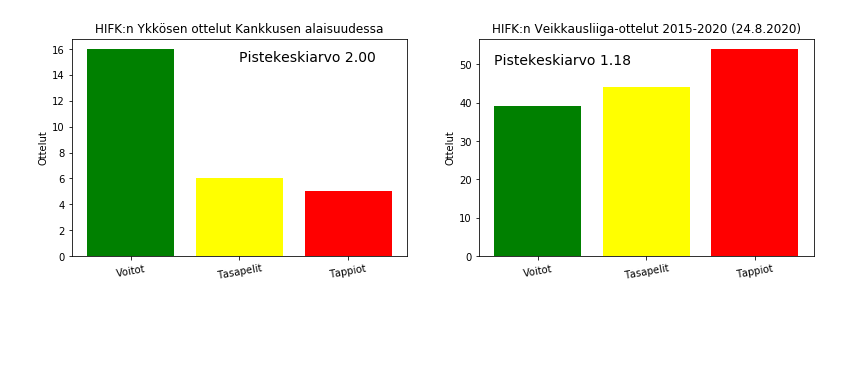
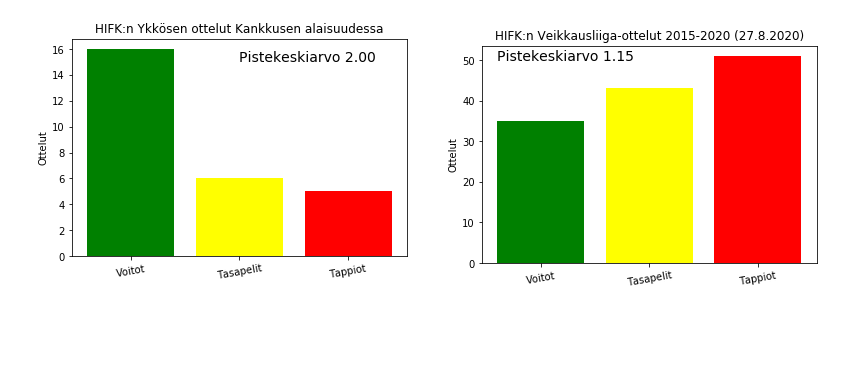
Results 27.8.2020

Changed region(s): [[0.517, 0.0576, 0.9731, 0.7487]]

diff --git a/Results/ResultsByManagers/Veikkausliiga_Results.py b/Results/ResultsByManagers/Veikkausliiga_Results.py
@@ -51,7 +51,7 @@ x_index = np.arange(len(x))
 plt.bar(x, palkit, color=("green","yellow","red"), align="center")
 plt.xlabel("")
 plt.ylabel("Ottelut")
-plt.title("HIFK:n Veikkausliiga-ottelut 2015-2020 (24.8.2020)")
+plt.title("HIFK:n Veikkausliiga-ottelut 2015-2020 (27.8.2020)")
 plt.xticks(x_index, x, rotation=10)
 
 
